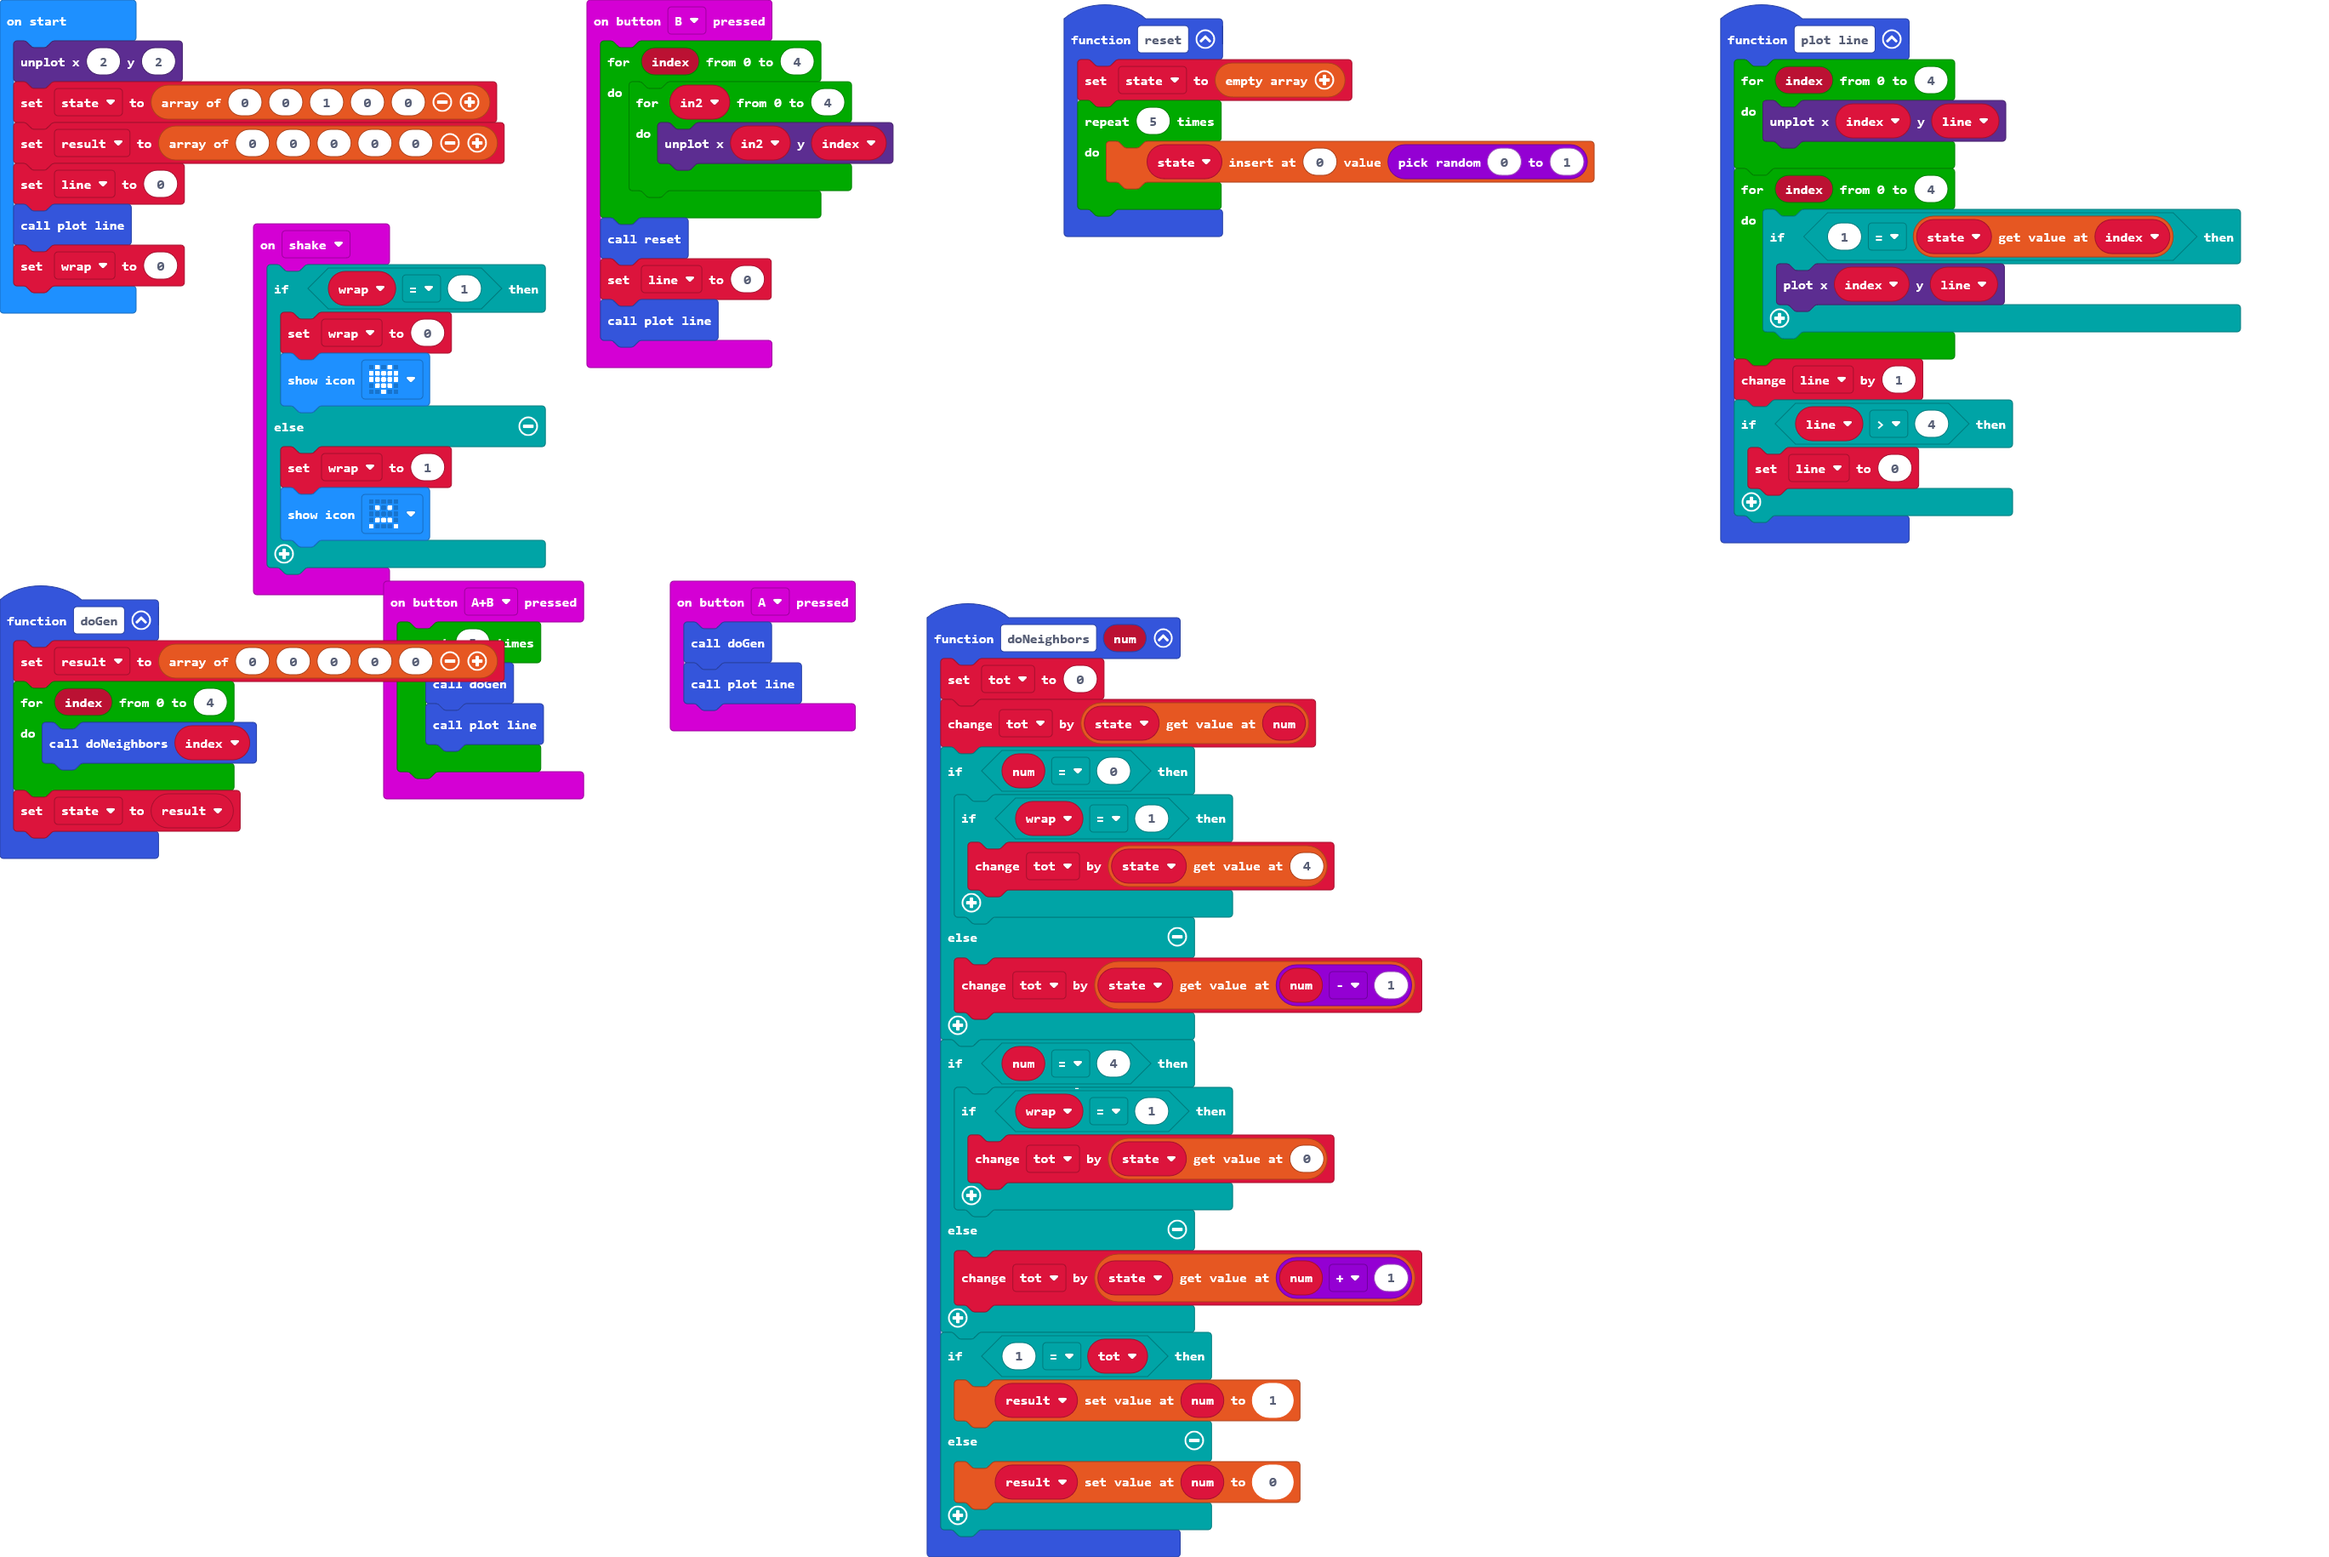
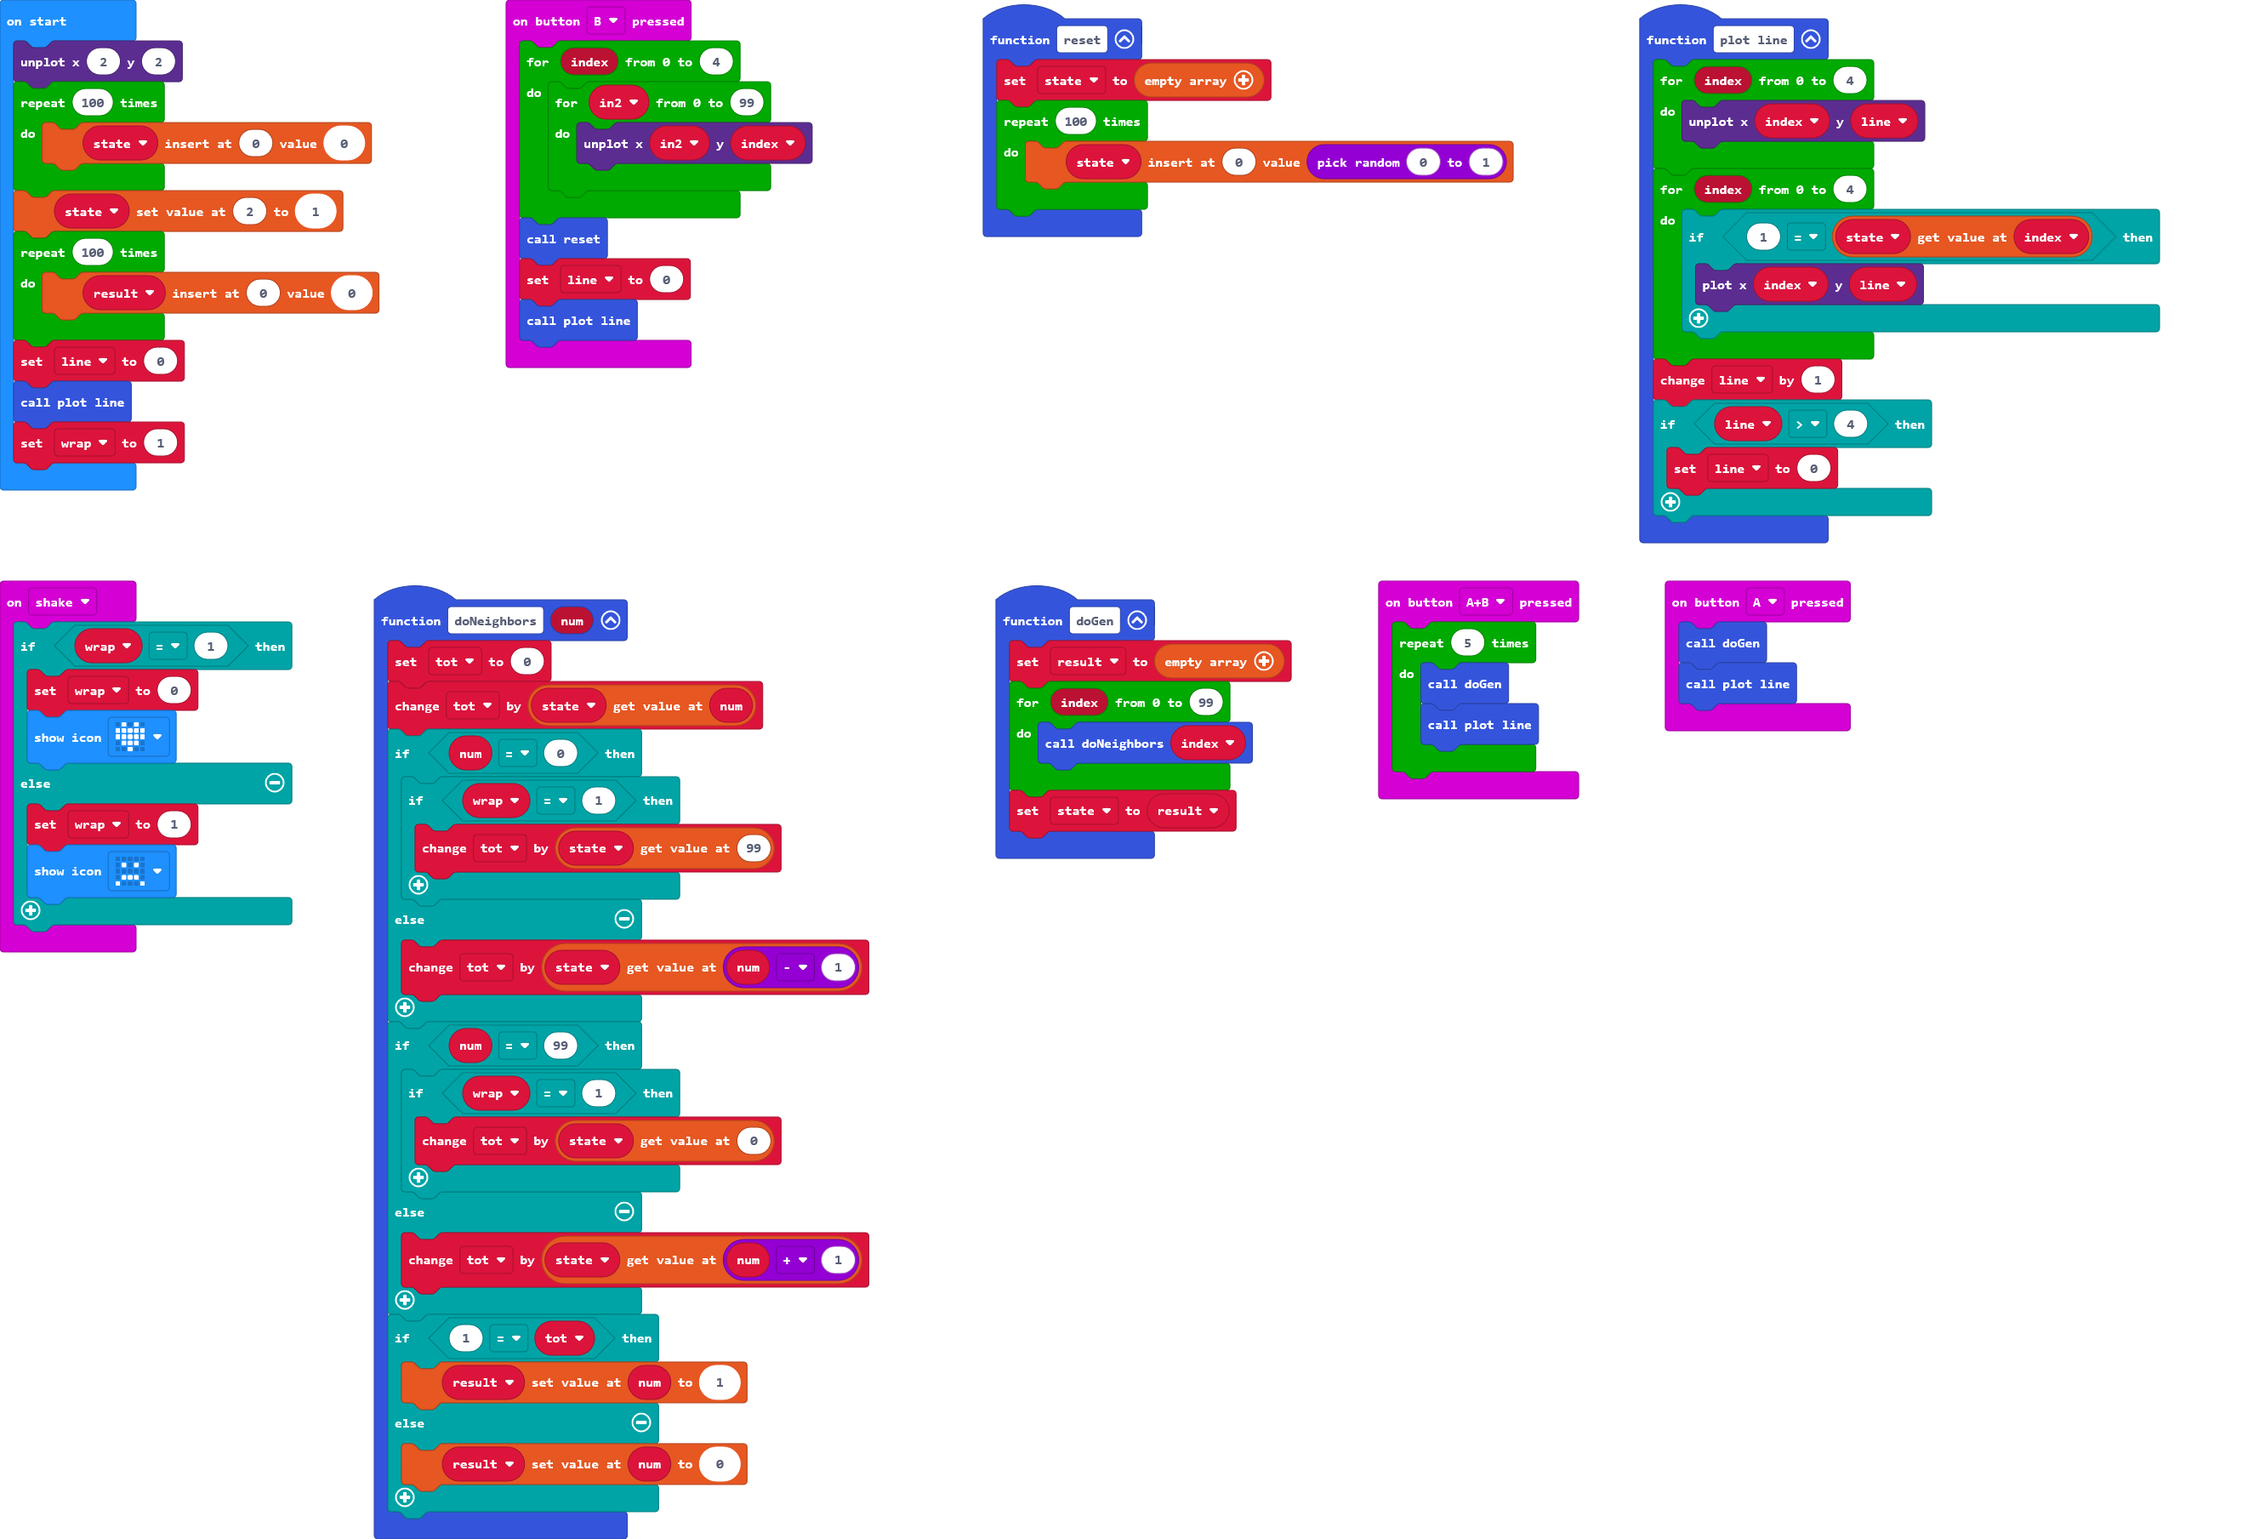
Update pxt.json, main.blocks, main.ts

diff --git a/main.ts b/main.ts
@@ -1,6 +1,6 @@
 function doGen () {
-    result = [0, 0, 0, 0, 0]
-    for (let index = 0; index <= 4; index++) {
+    result = []
+    for (let index = 0; index <= 99; index++) {
         doNeighbors(index)
     }
     state = result
@@ -14,12 +14,12 @@ function doNeighbors (num: number) {
     tot += state[num]
     if (num == 0) {
         if (wrap == 1) {
-            tot += state[4]
+            tot += state[99]
         }
     } else {
         tot += state[num - 1]
     }
-    if (num == 4) {
+    if (num == 99) {
         if (wrap == 1) {
             tot += state[0]
         }
@@ -40,7 +40,7 @@ input.onButtonPressed(Button.AB, function () {
 })
 input.onButtonPressed(Button.B, function () {
     for (let index = 0; index <= 4; index++) {
-        for (let in2 = 0; in2 <= 4; in2++) {
+        for (let in2 = 0; in2 <= 99; in2++) {
             led.unplot(in2, index)
         }
     }
@@ -73,7 +73,7 @@ function plot_line () {
 }
 function reset () {
     state = []
-    for (let index = 0; index < 5; index++) {
+    for (let index = 0; index < 100; index++) {
         state.insertAt(0, randint(0, 1))
     }
 }
@@ -83,8 +83,13 @@ let line = 0
 let result: number[] = []
 let state: number[] = []
 led.unplot(2, 2)
-state = [0, 0, 1, 0, 0]
-result = [0, 0, 0, 0, 0]
+for (let index = 0; index < 100; index++) {
+    state.insertAt(0, 0)
+}
+state[2] = 1
+for (let index = 0; index < 100; index++) {
+    result.insertAt(0, 0)
+}
 line = 0
 plot_line()
-wrap = 0
+wrap = 1
